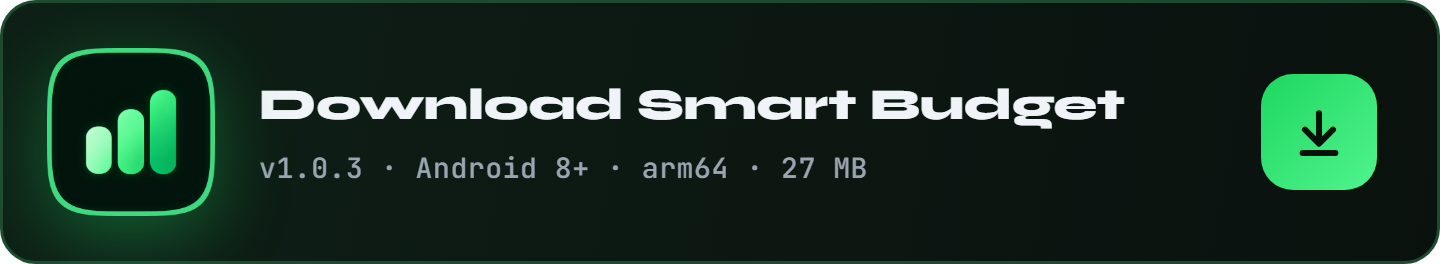
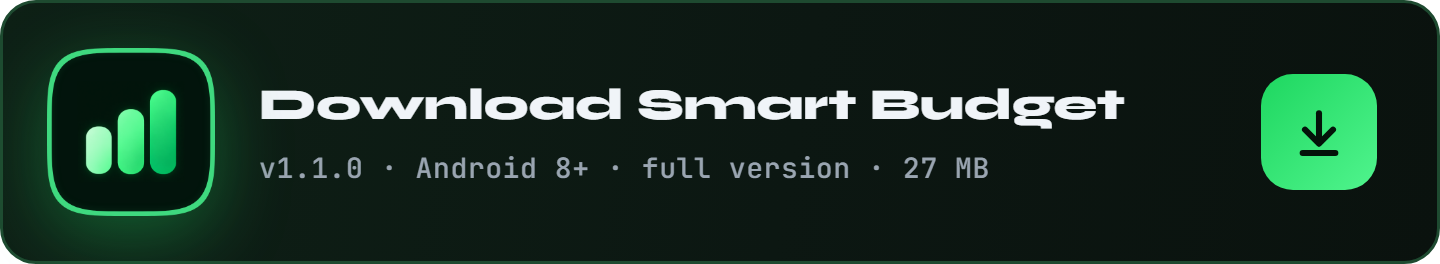
Version 1.1.0 : une démo, à côté de la vraie
- SmartBudget démo (identifiant .demo, DEMO=true à la compilation) :
  s'installe à côté de la version complète, arrive remplie des quatre
  mois du jeu d'essai dès le premier déverrouillage, sans banque, sans
  empreinte ni écran masqué par défaut. La carte de la banque cède la
  place à une carte « Démo » dans les réglages ; l'adresse de retour de
  la banque change pour ne pas voler celle de la vraie.
- Deux boutons dans le README : SmartBudget.apk et SmartBudget-demo.apk.

Claude-Session: https://claude.ai/code/session_01WGs6QSVmucucsE4NdDKAXp

Changed region(s): [[0.4375, 0.5758, 0.6875, 0.697], [0.2188, 0.6061, 0.25, 0.6667]]

diff --git a/lib/ecrans/reglages.dart b/lib/ecrans/reglages.dart
@@ -90,7 +90,7 @@ class EcranReglages extends ConsumerWidget {
         titreDroite: 'Sécurité',
         surtitreDroite: 'Tes données',
         gauche: [
-          const CarteBanque(),
+          if (modeDemo) const _CarteDemo() else const CarteBanque(),
           const SizedBox(height: 14),
           bloc('Budget', [
             ligne('target', 'Budget mensuel', budget == 0 ? 'Non fixé' : euros(budget, centimesSiRond: false),
@@ -185,7 +185,7 @@ class EcranReglages extends ConsumerWidget {
   }
 
   /// La version affichée, celle du pubspec.
-  static const _version = '1.0.3';
+  static const _version = '1.1.0';
 
   static String _duree(Duration d) => d.inSeconds < 60 ? '${d.inSeconds} secondes' : (d.inMinutes == 1 ? '1 minute' : '${d.inMinutes} minutes');
 
@@ -364,5 +364,40 @@ class EcranReglages extends ConsumerWidget {
     await Base.instance.toutDetruire();
     await auth.lock();
     generation.value++;
+  }
+}
+
+/// À la place de la banque, dans la démo : ce qu'on regarde, et où trouver
+/// la vraie application.
+class _CarteDemo extends StatelessWidget {
+  const _CarteDemo();
+
+  @override
+  Widget build(BuildContext context) {
+    return Carte(
+      padding: const EdgeInsets.fromLTRB(18, 16, 18, 18),
+      child: Column(
+        crossAxisAlignment: CrossAxisAlignment.start,
+        children: [
+          const Surtitre('Démo'),
+          const SizedBox(height: 10),
+          Row(
+            children: [
+              Icon(iconeDe('auto_awesome'), color: AppColors.vert, size: 22),
+              const SizedBox(width: 12),
+              const Expanded(
+                child: Text('Quatre mois inventés', style: TextStyle(fontWeight: FontWeight.w800, fontSize: 16)),
+              ),
+            ],
+          ),
+          const SizedBox(height: 8),
+          Text(
+            'Les opérations, les marchands et les montants sont faux. Aucune banque n’est reliée : tout reste sur ce téléphone. '
+            'La version complète, SmartBudget, s’installe à côté et se relie au Crédit Mutuel de Bretagne.',
+            style: TextStyle(color: AppColors.texteDiscret, height: 1.45),
+          ),
+        ],
+      ),
+    );
   }
 }

diff --git a/lib/providers/auth_provider.dart b/lib/providers/auth_provider.dart
@@ -2,7 +2,10 @@ import 'package:flutter/services.dart';
 import 'package:flutter_riverpod/flutter_riverpod.dart';
 import 'package:local_auth/local_auth.dart';
 
+import '../config/essais.dart';
 import '../donnees/base.dart';
+import '../donnees/demonstration.dart';
+import '../donnees/depots.dart';
 import '../security/key_vault.dart';
 import '../security/lock_state.dart';
 
@@ -41,6 +44,7 @@ class AuthService {
 
     // La clé n'entre en mémoire qu'ici, une fois l'identité prouvée.
     await KeyVault.instance.unlock();
+    await _remplirDemo();
     EtatVerrou.instance.setUnlocked(true);
     return const ResultatOuverture.succes();
   }
@@ -66,7 +70,19 @@ class AuthService {
   /// chiffrement reste : la clé est simplement chargée sans preuve.
   Future<void> ouvrirSansVerrou() async {
     await KeyVault.instance.unlock();
+    await _remplirDemo();
     EtatVerrou.instance.setUnlocked(true);
+  }
+
+  /// La démo arrive déjà remplie : quatre mois d'opérations inventées, posés
+  /// une seule fois, dès que la base chiffrée est lisible et avant que le
+  /// premier écran ne la lise.
+  Future<void> _remplirDemo() async {
+    if (!modeDemo) return;
+    const reglages = DepotReglages();
+    if (await reglages.lire('demo_remplie') != null) return;
+    await const Demonstration().remplir();
+    await reglages.ecrire('demo_remplie', '1');
   }
 
   /// Referme tout : la connexion à la base, puis les clés.

diff --git a/lib/providers/securite.dart b/lib/providers/securite.dart
@@ -1,6 +1,8 @@
 import 'package:flutter_riverpod/flutter_riverpod.dart';
 import 'package:flutter_secure_storage/flutter_secure_storage.dart';
 
+import '../config/essais.dart';
+
 import '../security/screen_guard.dart';
 
 /// Les réglages de sécurité, comme sur BodyCount.
@@ -8,7 +10,9 @@ import '../security/screen_guard.dart';
 /// Ils vivent dans le stockage sécurisé et non dans la base : il faut les
 /// lire avant l'empreinte, pour savoir s'il faut la demander.
 class Securite {
-  const Securite({this.verrou = true, this.delai = const Duration(minutes: 2), this.masquer = true});
+  // Dans la démo, les données sont inventées : ni empreinte ni écran
+  // masqué par défaut, pour l'essayer et la montrer librement.
+  const Securite({this.verrou = !modeDemo, this.delai = const Duration(minutes: 2), this.masquer = !modeDemo});
 
   /// L'empreinte à l'ouverture.
   final bool verrou;
@@ -36,9 +40,9 @@ class SecuriteNotifier extends StateNotifier<Securite> {
     final d = int.tryParse(await _stock.read(key: 'securite_delai') ?? '');
     final m = await _stock.read(key: 'securite_masquer');
     return Securite(
-      verrou: v != 'non',
+      verrou: v == null ? !modeDemo : v != 'non',
       delai: Duration(seconds: d ?? 120),
-      masquer: m != 'non',
+      masquer: m == null ? !modeDemo : m != 'non',
     );
   }
 

diff --git a/lib/config/essais.dart b/lib/config/essais.dart
@@ -3,4 +3,10 @@
 /// `flutter build apk --dart-define=ESSAIS=true` le fait apparaître dans
 /// les réglages. Sans ce drapeau, la constante vaut faux à la compilation :
 /// le compilateur retire la ligne des réglages et tout le générateur avec.
-const bool avecEssais = bool.fromEnvironment('ESSAIS');
+const bool avecEssais = bool.fromEnvironment('ESSAIS') || modeDemo;
+
+/// La démo publiée : `--dart-define=DEMO=true`. Une application à part
+/// (« SmartBudget démo », identifiant `.demo`), qui s'installe à côté de
+/// la vraie. Elle se remplit toute seule du jeu d'essai au premier
+/// lancement, et ne se relie à aucune banque.
+const bool modeDemo = bool.fromEnvironment('DEMO');

diff --git a/android/app/src/main/kotlin/com/cybertrist/smartbudget/MainActivity.kt b/android/app/src/main/kotlin/com/cybertrist/smartbudget/MainActivity.kt
@@ -112,7 +112,9 @@ class MainActivity : FlutterFragmentActivity() {
 
     override fun onCreate(savedInstanceState: Bundle?) {
         val debogable = applicationInfo.flags and ApplicationInfo.FLAG_DEBUGGABLE != 0
-        if (!debogable) window.addFlags(WindowManager.LayoutParams.FLAG_SECURE)
+        // La démo, aux données inventées, laisse faire les captures.
+        val demo = packageName.endsWith(".demo")
+        if (!debogable && !demo) window.addFlags(WindowManager.LayoutParams.FLAG_SECURE)
         super.onCreate(savedInstanceState)
         retenirLien(intent)
     }

diff --git a/README.md b/README.md
@@ -34,14 +34,23 @@ Sur l'écran déplié du Fold, un rail à gauche, et les pages deviennent des vo
 <img src="docs/sections/s03.png" alt="03 Installer" width="100%">
 
 <p align="center">
-<a href="https://github.com/Cybertrist/SmartBudget/releases/latest/download/SmartBudget.apk"><img src="docs/telecharger.png" alt="Télécharger Smart Budget, version 1.0.3, Android 8 ou plus, arm64" width="480"></a>
+<a href="https://github.com/Cybertrist/SmartBudget/releases/latest/download/SmartBudget.apk"><img src="docs/telecharger.png" alt="Télécharger Smart Budget, la version complète, Android 8 ou plus" width="400"></a>
+<a href="https://github.com/Cybertrist/SmartBudget/releases/latest/download/SmartBudget-demo.apk"><img src="docs/telecharger-demo.png" alt="Essayer la démo de Smart Budget, sans banque, Android 8 ou plus" width="400"></a>
 </p>
 
-L'APK n'est pas sur le Play Store : Android demande d'autoriser l'installation depuis le navigateur, une fois. Chaque version est signée par la même clé, ce qui permet de l'installer par-dessus la précédente sans rien perdre. Pour vérifier le fichier téléchargé :
+Deux applications, qui s'installent côte à côte sans se gêner.
+
+- **SmartBudget**, la version complète : elle se relie à ta banque et ne contient que tes vraies opérations.
+- **SmartBudget démo** : quatre mois d'opérations inventées, déjà chargées à l'ouverture, sans banque, sans empreinte, et les captures d'écran permises. Pour voir chaque écran avant de relier quoi que ce soit.
+
+Les APK ne sont pas sur le Play Store : Android demande d'autoriser l'installation depuis le navigateur, une fois. Chaque version est signée par la même clé, ce qui permet de l'installer par-dessus la précédente sans rien perdre. Pour vérifier le fichier téléchargé :
 
 ```
-# SHA-256 de SmartBudget.apk, version 1.0.3
[1 lines of base64/hex data omitted]
+# SHA-256 de SmartBudget.apk, version 1.1.0
[1 lines of base64/hex data omitted]
+
+# SHA-256 de SmartBudget-demo.apk, version 1.1.0
[1 lines of base64/hex data omitted]
 
 # SHA-256 du certificat de signature, CN=SmartBudget, O=Cybertrist
[1 lines of base64/hex data omitted]
@@ -51,8 +60,8 @@ Pour la construire soi-même :
 
 ```
 flutter build apk --release --split-per-abi
-# avec le jeu d'essai de quatre mois, pour essayer sans banque :
-flutter build apk --release --split-per-abi --dart-define=ESSAIS=true
+# la démo, avec son propre identifiant et le jeu d'essai déjà chargé :
+flutter build apk --release --split-per-abi --dart-define=DEMO=true
 ```
 
 <img src="docs/sections/s04.png" alt="04 Relier la banque" width="100%">

diff --git a/README.en.md b/README.en.md
@@ -36,14 +36,23 @@ On the Fold's unfolded screen, a rail on the left, and pages become panes side b
 <img src="docs/en/sections/s03.png" alt="03 Install" width="100%">
 
 <p align="center">
-<a href="https://github.com/Cybertrist/SmartBudget/releases/latest/download/SmartBudget.apk"><img src="docs/en/telecharger.png" alt="Download Smart Budget, version 1.0.3, Android 8 or later, arm64" width="480"></a>
+<a href="https://github.com/Cybertrist/SmartBudget/releases/latest/download/SmartBudget.apk"><img src="docs/en/telecharger.png" alt="Download Smart Budget, the full version, Android 8 or later" width="400"></a>
+<a href="https://github.com/Cybertrist/SmartBudget/releases/latest/download/SmartBudget-demo.apk"><img src="docs/en/telecharger-demo.png" alt="Try the Smart Budget demo, no bank, Android 8 or later" width="400"></a>
 </p>
 
-The APK is not on the Play Store: Android asks, once, to allow installs from the browser. Every version is signed with the same key, so it installs over the previous one without losing anything. To check the downloaded file:
+Two apps, which install side by side without getting in each other's way.
+
+- **SmartBudget**, the full version: it links to your bank and holds only your real transactions.
+- **SmartBudget démo**: four months of made-up transactions, already loaded when it opens, no bank, no fingerprint, and screenshots allowed. To see every screen before linking anything.
+
+The APKs are not on the Play Store: Android asks, once, to allow installs from the browser. Every version is signed with the same key, so it installs over the previous one without losing anything. To check the downloaded file:
 
 ```
-# SHA-256 of SmartBudget.apk, version 1.0.3
[1 lines of base64/hex data omitted]
+# SHA-256 of SmartBudget.apk, version 1.1.0
[1 lines of base64/hex data omitted]
+
+# SHA-256 of SmartBudget-demo.apk, version 1.1.0
[1 lines of base64/hex data omitted]
 
 # SHA-256 of the signing certificate, CN=SmartBudget, O=Cybertrist
[1 lines of base64/hex data omitted]
@@ -53,8 +62,8 @@ To build it yourself:
 
 ```
 flutter build apk --release --split-per-abi
-# with four months of demo data, to try it without a bank:
-flutter build apk --release --split-per-abi --dart-define=ESSAIS=true
+# the demo, with its own identifier and the demo data already loaded:
+flutter build apk --release --split-per-abi --dart-define=DEMO=true
 ```
 
 <img src="docs/en/sections/s04.png" alt="04 Linking the bank" width="100%">
